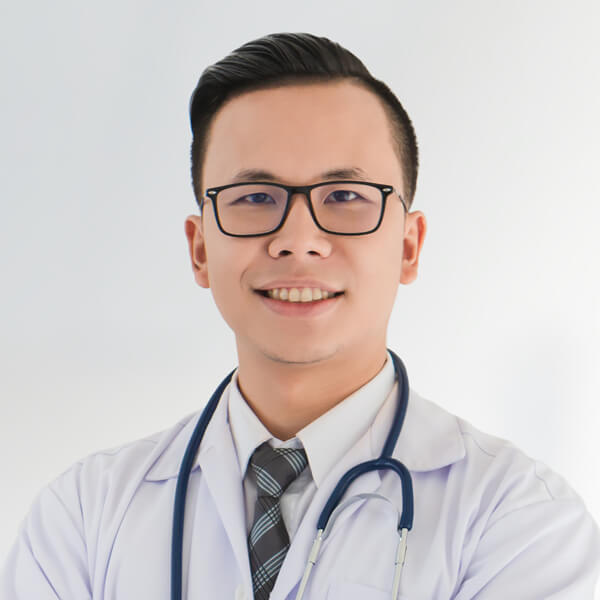
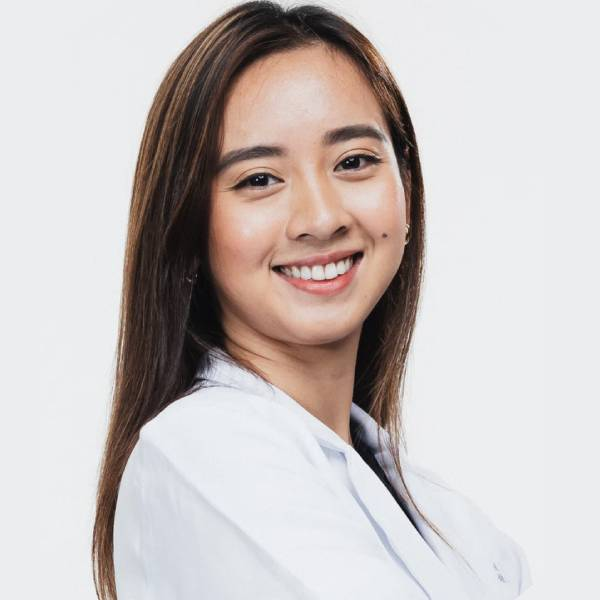
add doctors page

diff --git a/index.html b/index.html
@@ -840,9 +840,9 @@
 
       <div class="container">
 
-        <div class="row gy-4">
+        <div class="row gy-4" style="display: flex;justify-content: center;">
 
-          <div class="col-lg-3 col-md-6 d-flex align-items-stretch" data-aos="fade-up" data-aos-delay="100">
+          <div class="col-lg-3 col-md-6 d-flex align-items-stretch" data-aos="fade-up" data-aos-delay="200">
             <div class="team-member">
               <div class="member-img">
                 <img src="assets/img/doctors/doctors-1.jpg" class="img-fluid" alt="">
@@ -854,29 +854,9 @@
                 </div>
               </div>
               <div class="member-info">
-                <h4>Walter White</h4>
-                <span>Chief Medical Officer</span>
-                <a href="#" class="stretched-link" style="margin-top:10px;font-size:14px;display:block;">Read More</a>
-              </div>
-            </div>
-          </div><!-- End Team Member -->
-
-          <div class="col-lg-3 col-md-6 d-flex align-items-stretch" data-aos="fade-up" data-aos-delay="200">
-            <div class="team-member">
-              <div class="member-img">
-                <img src="assets/img/doctors/doctors-2.jpg" class="img-fluid" alt="">
-                <div class="social">
-                  <a href=""><i class="bi bi-twitter-x"></i></a>
-                  <a href=""><i class="bi bi-facebook"></i></a>
-                  <a href=""><i class="bi bi-instagram"></i></a>
-                  <a href=""><i class="bi bi-linkedin"></i></a>
-                </div>
-              </div>
-              <div class="member-info">
-                <h4>Jessie Balcom</h4>
-                <span>FNP-BC</span>
+                <h4>Jessica Balcom, FNP-C</h4>
+                <span>Family Nurse Practitoner</span>
                   <a href="./profile.html" class="stretched-link" style="margin-top:10px;font-size:14px;display:block;">Read More</a>
-
               </div>
             </div>
           </div><!-- End Team Member -->
@@ -893,9 +873,9 @@
                 </div>
               </div>
               <div class="member-info">
-                <h4>William Anderson</h4>
-                <span>Cardiology</span>
-                <a href="#" class="stretched-link" style="margin-top:10px;font-size:14px;display:block;">Read More</a>
+                <h4>Mackenzie F. PA</h4>
+                <span>Physicians Assistant</span>
+                <a href="./profile_mackenzie .html" class="stretched-link" style="margin-top:10px;font-size:14px;display:block;">Read More</a>
 
               </div>
             </div>
@@ -913,10 +893,9 @@
                 </div>
               </div>
               <div class="member-info">
-                <h4>Amanda Jepson</h4>
-                <span>Neurosurgeon</span>
-                <a href="#" class="stretched-link" style="margin-top:10px;font-size:14px;display:block;">Read More</a>
-
+                <h4>Lisa Carrasco,FNP-BC</h4>
+                <span>Family Nurse Practitoner</span>
+                <a href="./profile_lisa.html" class="stretched-link" style="margin-top:10px;font-size:14px;display:block;">Read More</a>
               </div>
             </div>
           </div><!-- End Team Member -->

diff --git a/profile_lisa.html b/profile_lisa.html
@@ -125,7 +125,7 @@
             <div class="tab-pane active show" role="tabpanel">
                 <div class="row">
                   <div class="col-lg-8 details order-2 order-lg-1">
-                    <h3>This is Jessica Balcom, Family Nurse Practitoner</h3>
+                    <h3>This is Lisa Carrasco, Family Nurse Practitoner</h3>
                     <p style="line-height:1.7em;">
                   A dedicated nursing professional with over 19 years of experience. Since 2018 I have been practicing as a Family Nurse Practitioner, focusing on delivering comprehensive care to my patients. My background includes experience as an emergency medicine nurse practitioner, as well as a commitment to serving rural communities in family practice.<br><br>
                   I believe in the importance of holistic care and focus on treating the whole person rather than just addressing symptoms. My approach involves taking the time to listen to my patients, understanding their backgrounds, and considering their individual circumstances when formulating care plans. I feel that building strong, trusting relationships with my patients is essential for effective healthcare delivery.
@@ -133,7 +133,7 @@
                 </p>
                   </div>
                   <div class="col-lg-4 text-center order-1 order-lg-2" style="margin-bottom:10px;">
-                    <img src="assets/img/doctors/doctors-1.jpg" alt="" class="img-fluid">
+                    <img src="assets/img/doctors/doctors-4.jpg" alt="" class="img-fluid">
                   </div>
                 </div>
               </div>

diff --git a/profile_mackenzie .html b/profile_mackenzie .html
@@ -125,7 +125,7 @@
             <div class="tab-pane active show" role="tabpanel">
                 <div class="row">
                   <div class="col-lg-8 details order-2 order-lg-1">
-                    <h3>This is Jessica Balcom, Family Nurse Practitoner</h3>
+                    <h3>This is Mackenzie, Physicians Assistant</h3>
                     <p style="line-height:1.7em;">
                   A dedicated nursing professional with over 19 years of experience. Since 2018 I have been practicing as a Family Nurse Practitioner, focusing on delivering comprehensive care to my patients. My background includes experience as an emergency medicine nurse practitioner, as well as a commitment to serving rural communities in family practice.<br><br>
                   I believe in the importance of holistic care and focus on treating the whole person rather than just addressing symptoms. My approach involves taking the time to listen to my patients, understanding their backgrounds, and considering their individual circumstances when formulating care plans. I feel that building strong, trusting relationships with my patients is essential for effective healthcare delivery.
@@ -133,7 +133,7 @@
                 </p>
                   </div>
                   <div class="col-lg-4 text-center order-1 order-lg-2" style="margin-bottom:10px;">
-                    <img src="assets/img/doctors/doctors-1.jpg" alt="" class="img-fluid">
+                    <img src="assets/img/doctors/doctors-3.jpg" alt="" class="img-fluid">
                   </div>
                 </div>
               </div>
